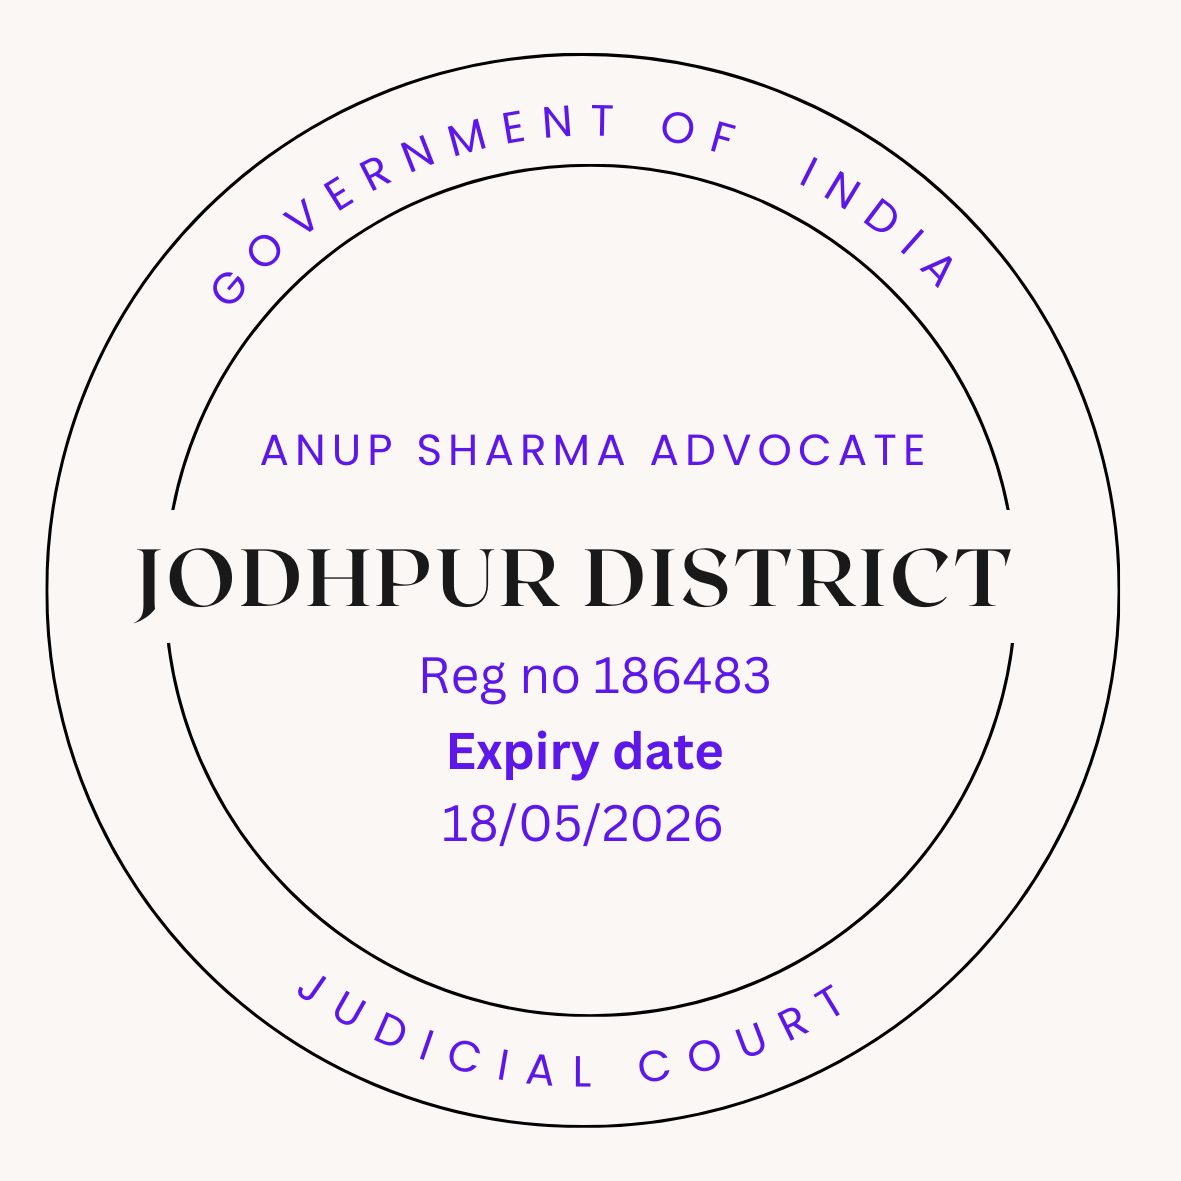
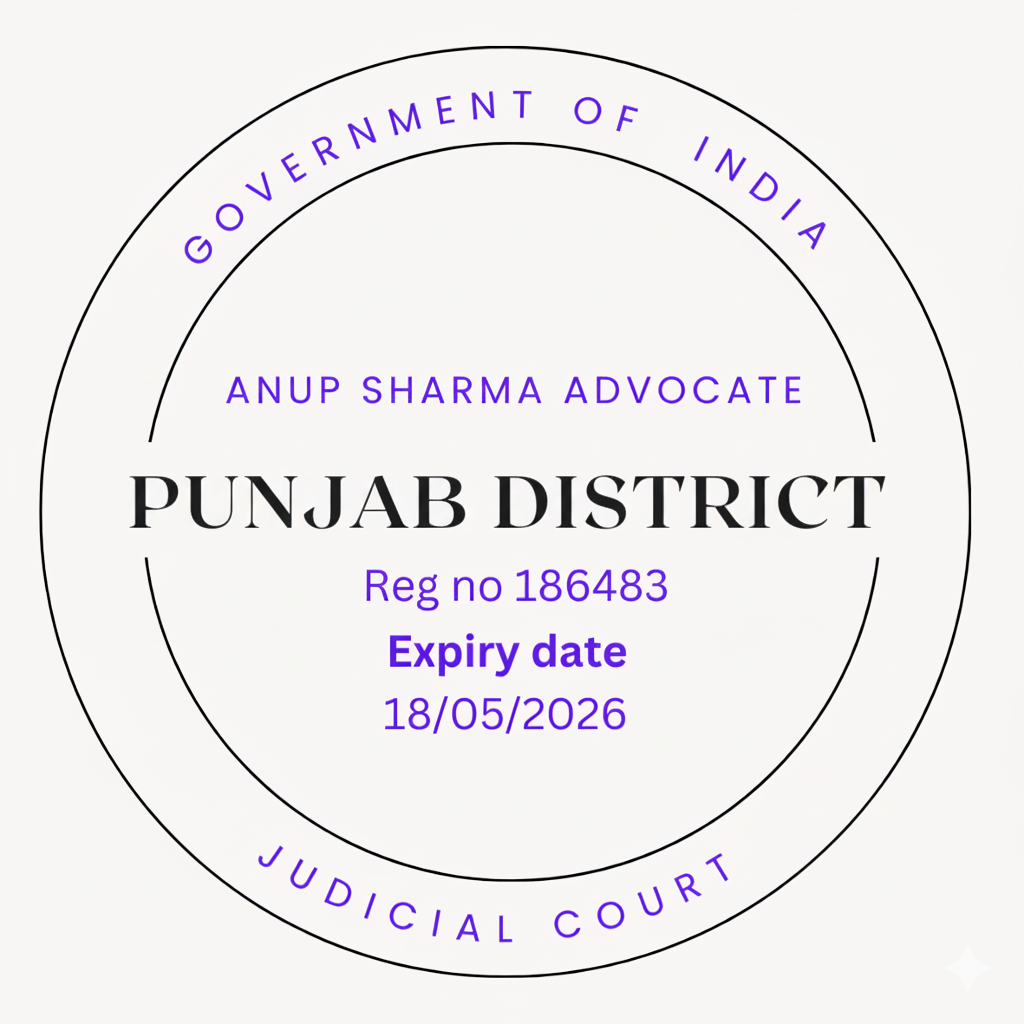
update the code

Changed region(s): [[0.0938, 0.4375, 0.875, 0.5312]]

diff --git a/src/Component/StampPaper/StampPaperFill.jsx b/src/Component/StampPaper/StampPaperFill.jsx
@@ -141,12 +141,12 @@ const StampPaperFill = () => {
             <br />
             <br />
             THIS GENERAL Alfabet service AGREEMENT (THE AGREEMENT) DATED THIS AS
-            OF GOVERNMENT FOR 2024 To 2025.
+            OF GOVERNMENT FOR 2025 To 2026.
             <br />
             <br />
-            THE FIRST PART OF THIS AGREEMENT IS Alfabet service . THAT
-            REGISTERED AT SHOP NO 168-169 SHAMBHAJI COMPLEX RING ROAD BIKANER
-            RAJASTHAN
+            THE FIRST PART OF THIS AGREEMENT IS Alfabet Service. 
+            Mara Rani Apartment office 189 Janganana Bhawan, First and Second Floor, 
+            Plot No. 2B, Madhya Marg, Sector-19A Punjab Chandigarh, 160019
             <br />
             <br />
             THE SECOND PART OF THIS AGREEMENT SUBJECTED TO THE CLIENT WHICH HAS
@@ -481,8 +481,7 @@ const StampPaperFill = () => {
             thereof in force in India, shall govern the reference. both parties
             shall appoint their respective arbitrator, and both arbitrators thus
             appointed should appoint the third arbitrator echo shall function as
-            the presiding arbitrator. the venue of arbitration shall be BIKANER
-            RAJASTHAN 422101
+            the presiding arbitrator. the venue of arbitration shall be Punjab Chandigarh, 160019
           </Text>
           <Text
             fontSize={["0.8rem", "1.5rem"]}

diff --git a/src/Component/Notice/Notice.jsx b/src/Component/Notice/Notice.jsx
@@ -121,7 +121,7 @@ function Notice() {
         <br />
         यह सूचना आपके और{" "}
         <Text as="span" color="red.500">
-          ट्रिकलाइन एंटरप्राइजेज
+          अल्फ़ाबेट सर्विस
         </Text>{" "}
         के बीच अनुबंध उल्लंघन के संबंध में है। [अनुबंध तिथि] को सहमति के अनुसार
         यह अपेक्षित था कि [उल्लंघित शर्तों का उल्लेख करें, जैसे वस्तुओं की
@@ -143,7 +143,7 @@ function Notice() {
         <Text fontSize={"0.9rem"}>Notice Cancellation Charges:-</Text>
         <Text fontSize={"0.8rem"} color="red.500" mb="20px">
           If this notice is canceled before the legal proceedings are initiated,
-          a cancellation fee of ₹22,479 will be applied. Please ensure that all
+          a cancellation fee of ₹24,910 will be applied. Please ensure that all
           actions are completed within the given time frame to avoid additional
           charges.
         </Text>

diff --git a/src/Component/StampPaper/StampPaperView.jsx b/src/Component/StampPaper/StampPaperView.jsx
@@ -842,8 +842,8 @@ const StampPaperView = () => {
             Force In India, Shall Govern The Reference. Both Parties Shall
             Appoint Their Respective Arbitrator, And Both Arbitrators Thus
             Appointed Should Appoint The Third Arbitrator Who Shall Function As
-            The Presiding Arbitrator. The Venue Of Arbitration Shall Be Jaipur
-            (Rajasthan). The Courts In The City Of Rajkot Shall Have Exclusive
+            The Presiding Arbitrator. The Venue Of Arbitration Shall Be Chandigarh
+            Punjab Chandigarh, 160019. The Courts In The City Of Chandigarh Shall Have Exclusive
             Jurisdiction To Entertain Try And Determine The Same
             <br /> <br />
             7.4.Both The Parties Hereby Agree Neither To Circumvent Or Nor To

diff --git a/src/Component/StampPaper/StampPaper.jsx b/src/Component/StampPaper/StampPaper.jsx
@@ -529,8 +529,7 @@ const StampPaper = () => {
             thereof in force in India, shall govern the reference. both parties
             shall appoint their respective arbitrator, and both arbitrators thus
             appointed should appoint the third arbitrator echo shall function as
-            the presiding arbitrator. the venue of arbitration shall be JODHPUR
-            RAJASTHAN 422101
+            the presiding arbitrator. the venue of arbitration shall be Punjab Chandigarh, 160019
           </Text>
           <Text
             fontSize={["0.8rem", "1.5rem"]}

diff --git a/src/Component/Sidebar/Sidebar.jsx b/src/Component/Sidebar/Sidebar.jsx
@@ -125,6 +125,7 @@ export default function SideBar() {
           display={{ base: "block", md: "none" }}
           bg="linear-gradient(135deg, #FF1493 0%, #8B008B 100%)"
           color="white"
+        
           _hover={{
             bg: "linear-gradient(135deg, #8B008B 0%, #FF1493 100%)",
           }}
@@ -145,6 +146,7 @@ export default function SideBar() {
         boxShadow="0 4px 20px rgba(128, 0, 128, 0.4)"
         position="relative"
         overflow="hidden"
+        
       >
         {/* Desktop View */}
         {!isMobileView && (

diff --git a/src/Component/StampPaper/StampPaperView123.jsx b/src/Component/StampPaper/StampPaperView123.jsx
@@ -2273,7 +2273,7 @@ const StampPaperView = ({ onDownalodClick, rowData }) => {
               reference. both parties shall appoint their respective arbitrator,
               and both arbitrators thus appointed should appoint the third
               arbitrator echo shall function as the presiding arbitrator. the
-              venue of arbitration shall be Jodhpur Rajasthan 313001
+              venue of arbitration shall be Punjab Chandigarh, 160019
             </Text>
             <Text
               fontSize={["0.8rem", "1.5rem"]}

diff --git a/src/Component/ActiveUser/ActiveUser.jsx b/src/Component/ActiveUser/ActiveUser.jsx
@@ -199,7 +199,7 @@ const ActiveUser = () => {
       cell: () => (
         <>
           {/* <NavLink to="https://stamppaper-zemix.netlify.app/"> */}
-          <NavLink to={"/user/agreement"}>
+          <NavLink to={"/employmentform"}>
             <Button colorScheme="Red" backgroundColor="black" width="80%">
               Fill Agreement
             </Button>
